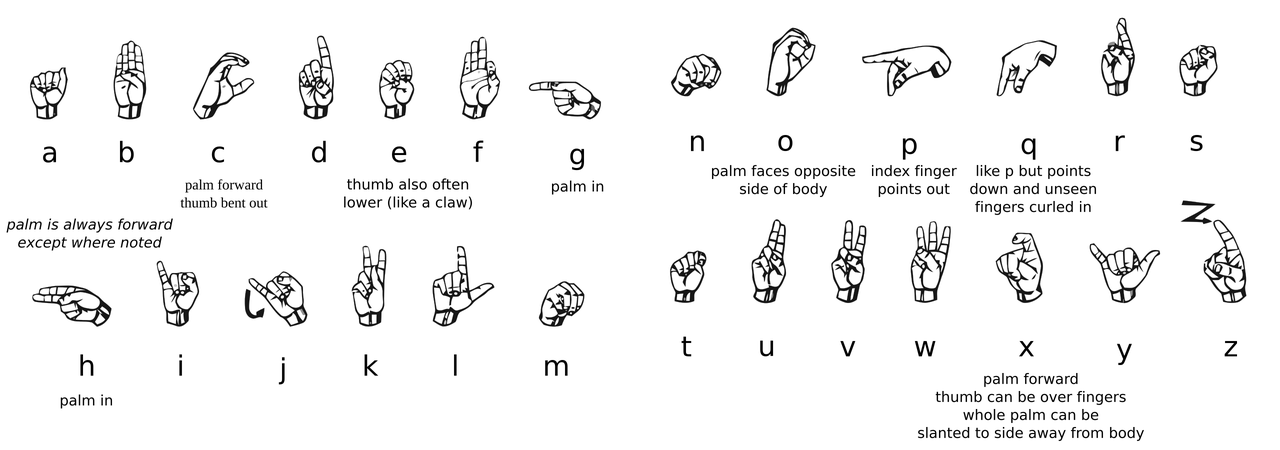
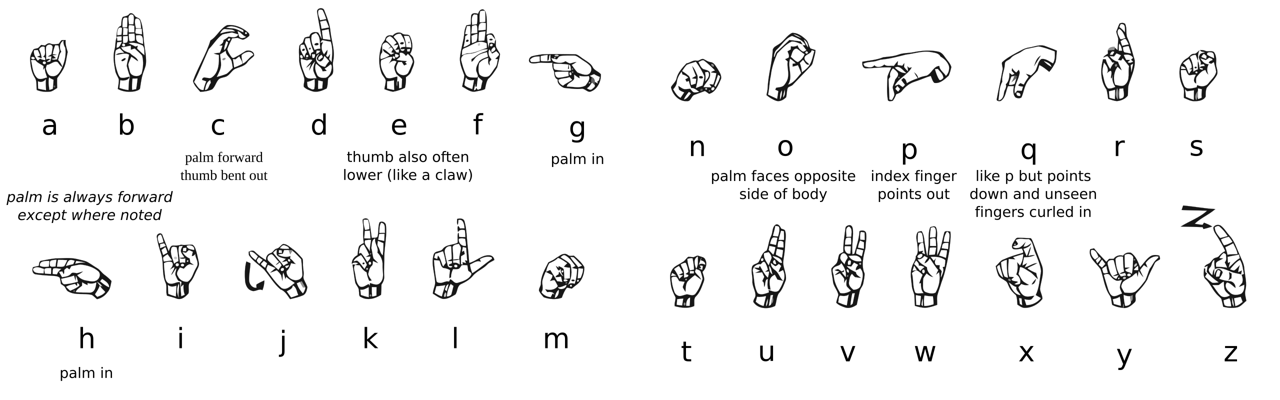
Grade 7 interview passage: shorter sign-language diagram so the front fits with room to spare
Claude-Session: https://claude.ai/code/session_01LacnEKq3suEtywSQgpYsgG

diff --git a/grade7/passages.js b/grade7/passages.js
@@ -6330,7 +6330,7 @@
     deck: 'A student newspaper interviews a sign language interpreter',
     hero: {
       photo: 'g7-asl-alphabet.png', credit: 'Diagram: Marnanel, after Dancor and Ds13, public domain, Wikimedia Commons', focus: '50% 50%',
-      tall: 246,
+      tall: 218,
       cap: 'The ASL finger-spelling alphabet. Signers spell names and some words letter by letter.'
     },
     body: [
@@ -6345,7 +6345,7 @@
       '<b class="ps-who">Danielle:</b> Lowercase “deaf” describes not being able to hear. Capital-D “Deaf” describes a cultural community, with its own language, history, art and humour. Many Deaf people do not see themselves as missing something. They see themselves as members of a linguistic minority, like francophones in Alberta.',
       '<b class="ps-who">Amira:</b> What can hearing students do to be more <b>inclusive</b>?',
       '<b class="ps-who">Danielle:</b> Learn a few signs, starting with the finger-spelling alphabet. Face a Deaf person when you speak, and do not cover your mouth. And never say “never mind” if someone misses something. To a Deaf person, those two words mean, “You are not worth repeating it for.”',
-      { img: 'g7-interpreter.jpg', credit: 'Photo: Stephan Röhl, Heinrich-Böll-Stiftung, CC BY-SA 2.0, Wikimedia Commons', tall: 105, cap: 'An interpreter at work.' }
+      { img: 'g7-interpreter.jpg', credit: 'Photo: Stephan Röhl, Heinrich-Böll-Stiftung, CC BY-SA 2.0, Wikimedia Commons', tall: 90, cap: 'An interpreter at work.' }
     ],
     guide: { before: 'Ask what the child knows about sign language. Look at the finger-spelling alphabet together and try spelling your first names. Teach <b>certified</b> (officially trained and tested) and <b>inclusive</b>.',
       after: 'Danielle says “never mind” can hurt. What other small habits might leave people out without our noticing?' },
